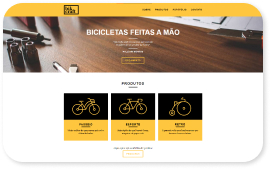
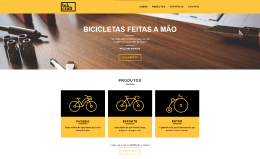
projetos

Changed region(s): [[0.0, 0.0, 1.0, 0.9308], [0.0615, 0.478, 0.9231, 0.9811], [0.9231, 0.9308, 0.9538, 0.956]]

diff --git a/estilo/style.css b/estilo/style.css
@@ -675,24 +675,25 @@ img {
 .projetos-sites li {
   display: grid;
   grid-template-columns: 1fr;
+  gap: 10px;
+  grid-auto-rows: max-content;
 }
 
 .projetos-info {
   display: flex;
   justify-content: space-between;
-  margin-top: 10px;
+  max-height: 24px;
 }
 
-.projetos-icones{
+.projetos-icones {
   gap: 5px;
   display: flex;
 }
 
-.projetos-icones img {
-  width: 24px;
-  height: 24px;
+.projetos-icones img{
+  max-width: 24px;
+  max-height: 24px;
 }
-
 
 .projetos-sites li h3 {
   font-family: var(--titulo);
@@ -702,26 +703,111 @@ img {
 .projetos-sites li p {
   font-family: var(--corpo);
   font-size: 1rem;
+  align-self: end;
 }
 
 .projetos-sites li a {
   position: relative;
-  width: 260px; /* Lembrar de trocar */
-  height: 159px;
+  align-self: start;
 }
 
-.projetos-sites li a::after {
-  content: "";
+.projetos-sites li a img{
+  border-radius: 20px;
+  box-shadow: 2px 2px 5px rgba(0, 0, 0, 0.18);
+}
+
+.projetos-lista a::after {
+  content: "55/00";
+  text-align: center;
+  padding: 1px;
+  font-family: var(--corpo);
   display: block;
   width: 67px;
-  height: 24px;
+  height: 20px;
   background-color: #160a0ba2;
   color: #fff;
   position: absolute;
-  bottom: 3px;
+  bottom: 0px;
   right: 20px;
-  border-top-right-radius: 4px;
-  border-top-left-radius: 4px;
+  border-top-right-radius: 6px;
+  border-top-left-radius: 6px;
 }
 
+.projeto-1 a::after {
+  content: "12/20";
+}
 
+.projeto-2 a::after {
+  content: "06/21";
+}
+
+.projeto-3 a::after {
+  content: "12/21";
+}
+
+.projeto-4 a::after {
+  content: "01/22";
+}
+
+@media (max-width: 1100px) {
+  .projetos {
+    background-image: none;
+  }
+}
+
+@media (max-width: 1060px) {
+  .projetos-info {
+    display: grid;
+    grid-template-columns: 1fr;
+    margin-bottom: 10px;
+  }
+
+  .projetos-sites li h3, .projetos-sites li p  {
+    font-size: 0.8rem;
+    line-height: 1.2;
+  }
+}
+
+@media (max-width: 1000px) {
+  .projetos {
+    grid-template-columns: 1fr;
+    padding: 20px 0;
+    gap: 0px;
+    height: max-content;
+  }
+
+  .projetos-lista {
+    grid-column: initial;
+    grid-row: initial;
+  }
+  .projetos-sites {
+    gap: 20px 20px;
+  }
+
+  .projetos-sites p {
+    max-width: 34ch;
+  }
+
+  .projetos-sites li {
+    justify-self: center;
+    max-width: max-content;
+  }
+}
+
+@media (max-width: 500px) {
+  .projetos-lista a::after {
+    width: 40px;
+    height: 15px;
+    font-size: 0.8rem;
+    right: 15px;
+    border-top-right-radius: 4px;
+    border-top-left-radius: 4px;
+  }
+}
+
+@media (max-width: 400px) {
+  .projetos-sites {
+    gap: 30px;
+    grid-template-columns: 1fr;
+  }
+}

diff --git a/index.html b/index.html
@@ -97,12 +97,12 @@
       <h1 class="subtitulo">Projetos</h1>
       <div class="projetos-lista">
         <ul class="projetos-sites">
-          <li>
+          <li class="projetos-imagens projeto-1">
             <a
               href="https://glaubercsouza.github.io/origamid-web-design-completo/index.html"
               target="_blank"
-              rel="external"
-              ><img src="./img/bikcraft-bg.jpg" alt="Bikcraft Miniatura"
+              rel="external" 
+              ><img src="./img/bikcraft-bg.jpg" alt="Bikcraft Miniatura" class="bik1"
             /></a>
             <div class="projetos-info">
               <h3>Bikcraft</h3>
@@ -112,14 +112,16 @@
                 <img src="./img/js-icon.svg" alt="Ícone JavaScript" />
               </div>
             </div>
-            <p>Projeto para o curso Web Design Completo da Origamid</p>
+            <p>
+              Projeto para o curso Web Design Completo da Origamid.
+            </p>
           </li>
-          <li>
+          <li class="projeto-2">
             <a
               href="https://glaubercsouza.github.io/projeto-dinossauros/"
               target="_blank"
-              rel="external"
-              ><img src="./img/dino-bg.jpg" alt="Dinossauros Miniatura"
+              rel="external" 
+              ><img src="./img/dino-bg.jpg" alt="Dinossauros Miniatura" 
             /></a>
             <div class="projetos-info">
               <h3>Dinossauros</h3>
@@ -134,12 +136,12 @@
               Design Completo
             </p>
           </li>
-          <li>
+          <li class="projeto-3">
             <a
               href="https://glaubercsouza.github.io/curso-em-video-html-css/desafios/d010/android.html"
               target="_blank"
               rel="external"
-              ><img src="./img/android-bg.jpg" alt="Projeto Android Miniatura"
+              ><img src="./img/android-bg.jpg" alt="Projeto Android Miniatura" class="imagem-projeto"
             /></a>
             <div class="projetos-info">
               <h3>Projeto Android</h3>
@@ -150,7 +152,7 @@
             </div>
             <p>Projeto para o curso HTML-CSS do Curso em Vídeo</p>
           </li>
-          <li>
+          <li class="projeto-4">
             <a
               href="https://glaubercsouza.github.io/curso-em-video-html-css/desafios/d012/index.html"
               target="_blank"
